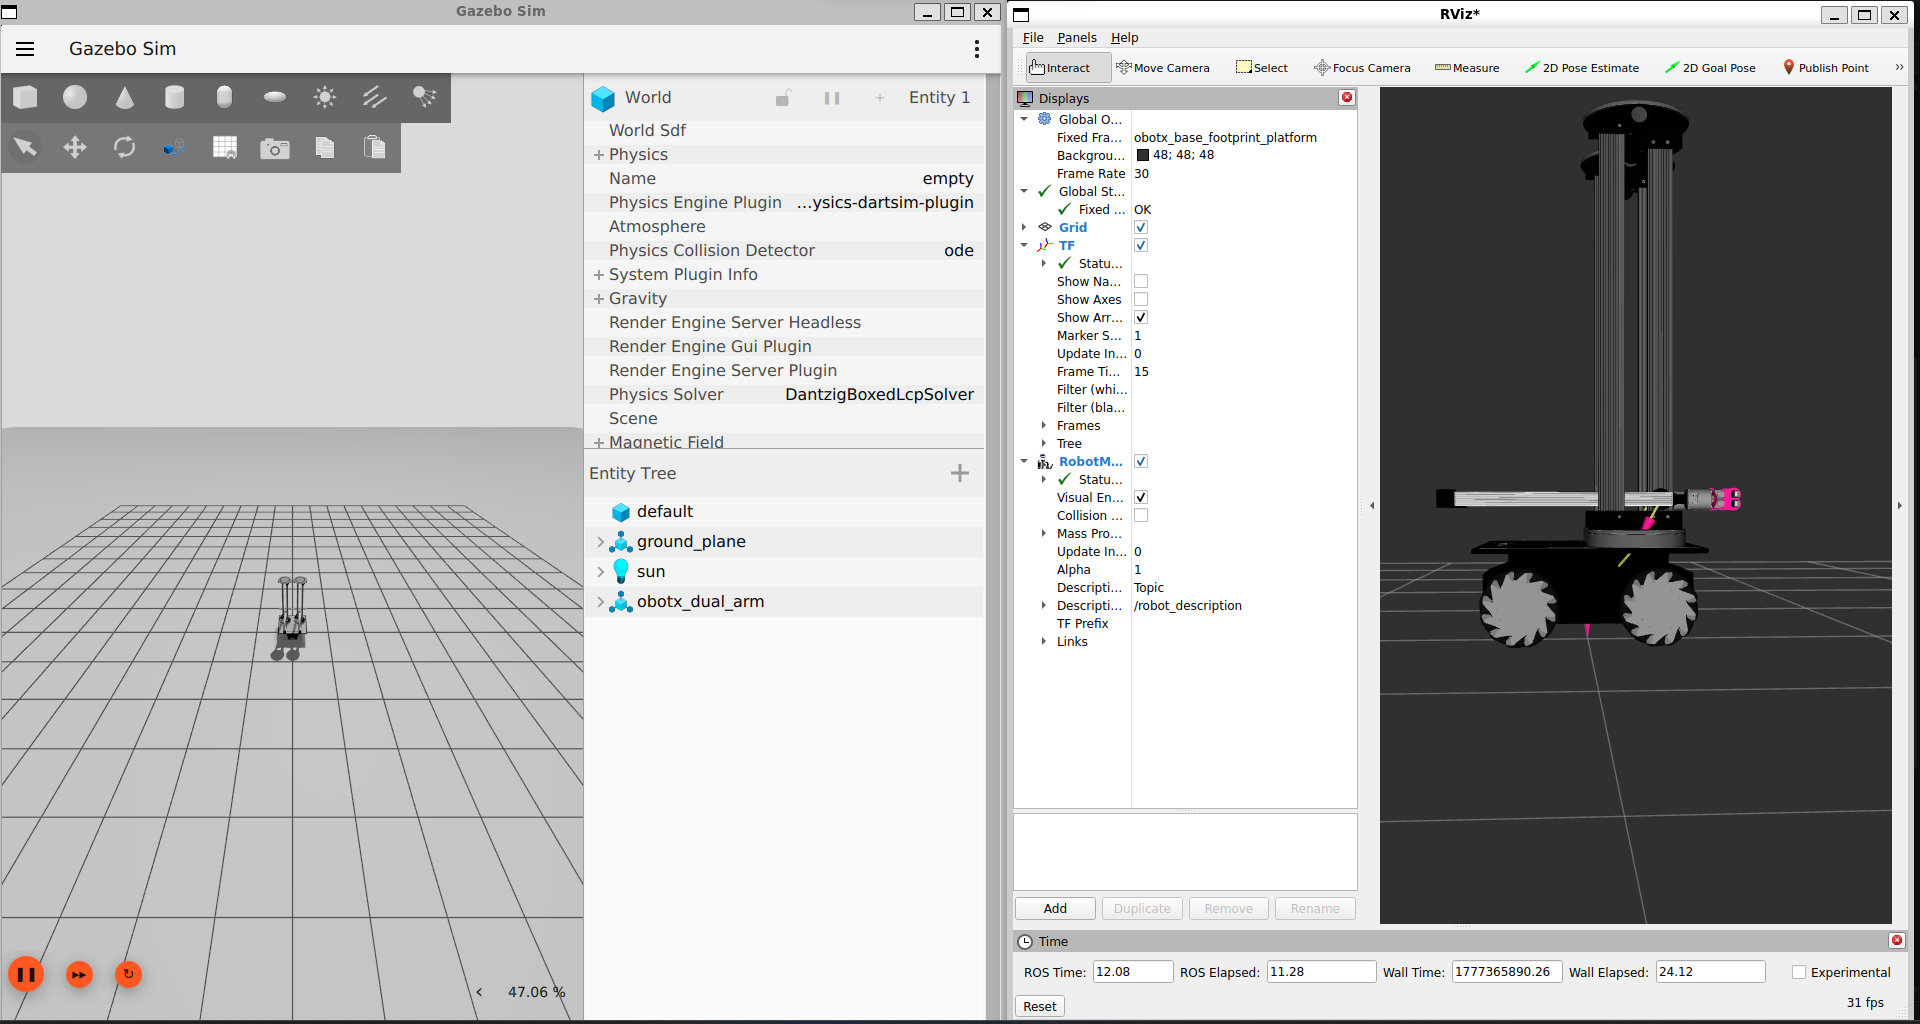
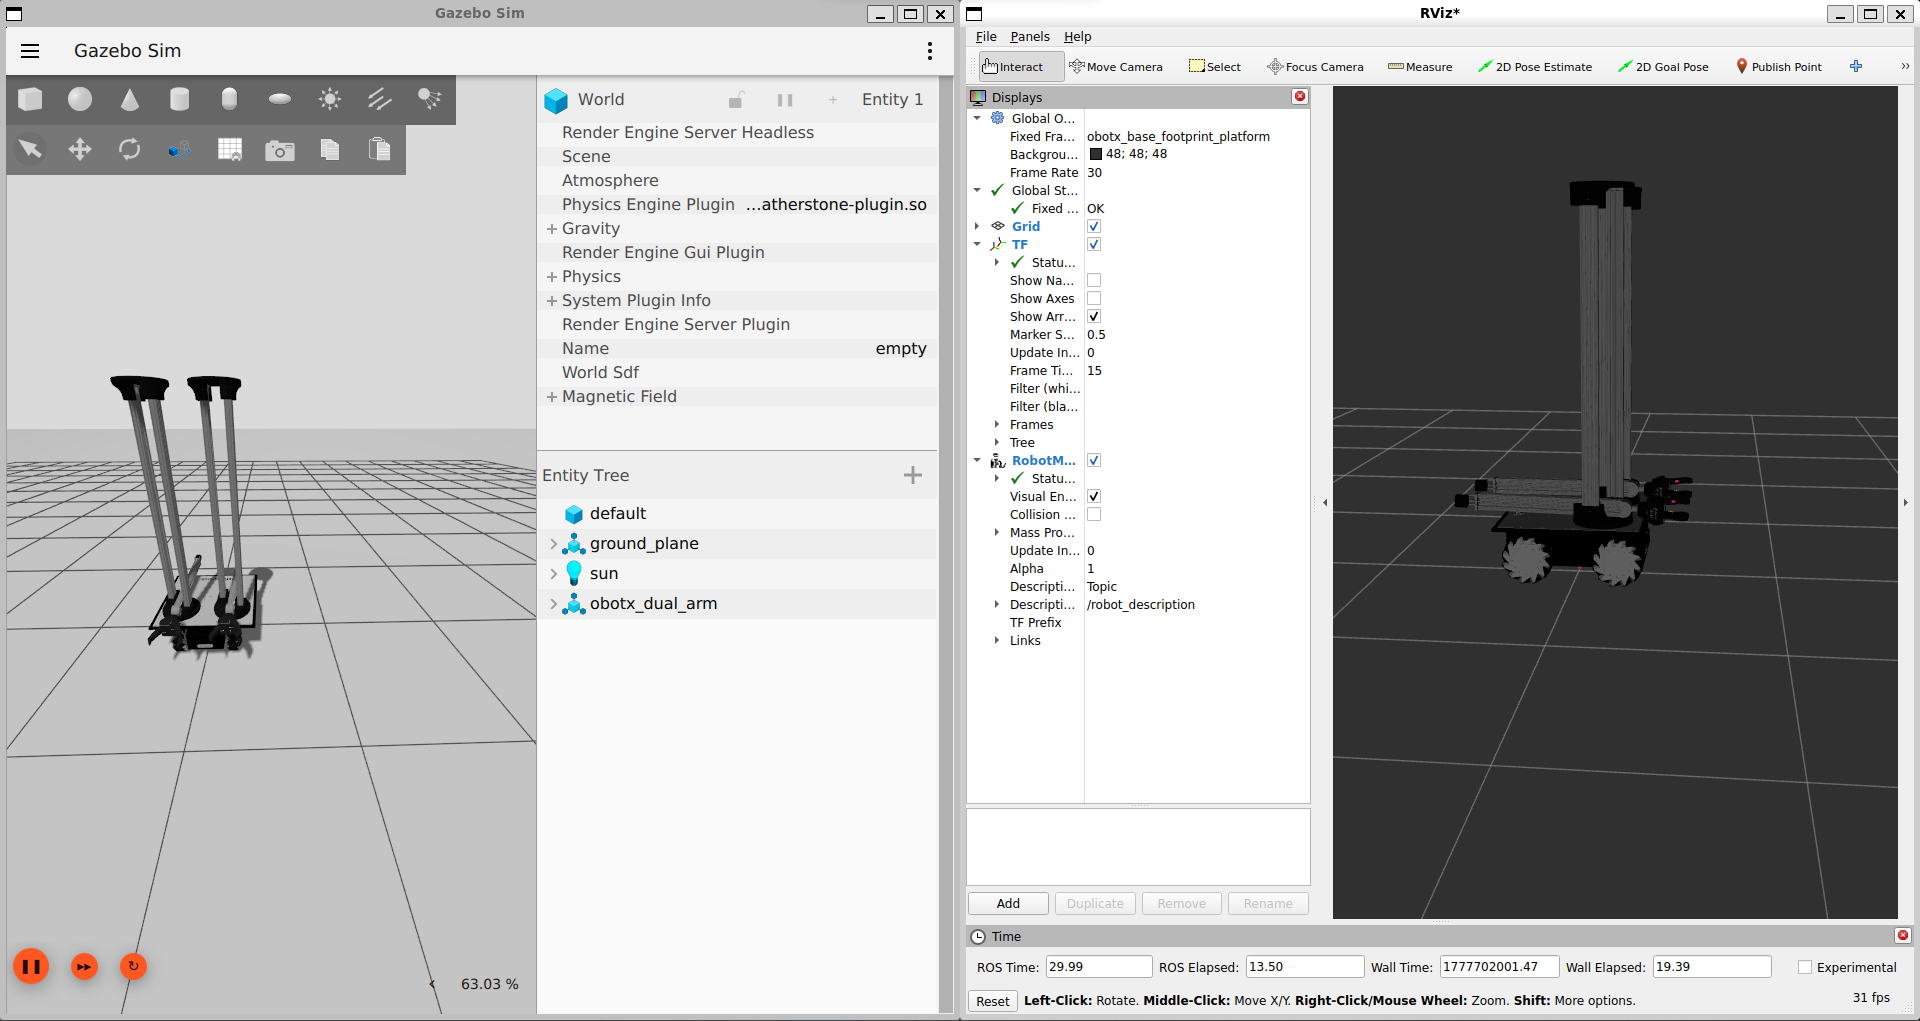
feat:edit ROS Quadruped README

diff --git a/ROS/Quadruped/README.md b/ROS/Quadruped/README.md
@@ -22,17 +22,16 @@ This configuration features two completely separate manipulators mounted side-by
 Before proceeding, ensure you have the following installed:
 1. **ROS 2 Jazzy Jalisco**
 2. **Gazebo Harmonic**
+3. Non-linear mimic gazebo plugin 
 
 If you have not installed these yet, please refer to the official installation guides:
 - [Install ROS 2 Jazzy](https://docs.ros.org/en/jazzy/Installation.html)
 - [Install Gazebo Harmonic](https://gazebosim.org/docs/harmonic/install_ubuntu/)
+- [Install Non-linear Mimics Gazebo Plugin](https://github.com/drmwnrafi/gz_nonlinear_mimic)
 
 ---
 
 ## Quick Start Guide
-
-https://github.com/user-attachments/assets/cead9334-a670-4825-82e9-ccdc08dcac1e
-
 ### 1. Build the Workspace
 
 Navigate to the root of the ROS Quadruped package directory and build the packages
@@ -59,45 +58,13 @@ Open a new terminal.
 - Mobile Base Control
     Use the standard teleop twist keyboard to drive the omnidirectional base
     ```bash
-    ros2 run teleop_twist_keyboard teleop_twist_keyboard --ros-args -p stamped:=true
+    ros2 run teleop_twist_keyboard teleop_twist_keyboard --ros-args -p stamped:=true -r /cmd_vel:=/mecanum_drive_controller/cmd_vel
     ```
 - Arm Control (Example)
     You can send joint trajectory goals directly via the command line to test arm movements. Below is an example sequence for the Right Arm.
     ```bash
-<<<<<<< Updated upstream
-        ros2 action send_goal /right_arm_controller/follow_joint_trajectory control_msgs/action/FollowJointTrajectory "{trajectory: {
-          joint_names: [
-            obotx_right_arm_mount_joint,
-            obotx_right_joint_slider_left_slide,
-            obotx_right_joint_slider_left_hinge,
-            obotx_right_joint_telescopic_slide,
-            obotx_right_joint_hinge_telescopic_hand,
-            obotx_right_finger_1_joint_1,
-            obotx_right_finger_2_joint_1,
-            obotx_right_finger_middle_joint_1
-          ],
-          points: [
-            {
-              positions: [0.0, 0.9, -0.2, 0.6, 0.8, 1.2, 1.2, 1.2],
-              time_from_start: {sec: 3}
-            },
-            {
-              positions: [0.5, 0.3, 0.2, 0.0, 0.0, 0.05, 0.05, 0.05],
-              time_from_start: {sec: 6}
-            },
-            {
-              positions: [-0.5, 0.7, 0.0, 0.6, -0.7, 1.2, 1.2, 1.2],
-              time_from_start: {sec: 9}
-            },
-            {
-              positions: [0.0, 0.2, 0.0, 0.0, 0.0, 0.05, 0.05, 0.05],
-              time_from_start: {sec: 12}
-            }
-          ]
-        }}"
-=======
     ros2 action send_goal /right_arm_controller/follow_joint_trajectory control_msgs/action/FollowJointTrajectory "{trajectory: {
-    joint_names: [
+      joint_names: [
         obotx_right_arm_mount_joint,
         obotx_right_joint_slider_left_slide,
         obotx_right_joint_slider_left_hinge,
@@ -106,59 +73,48 @@ Open a new terminal.
         obotx_right_finger_1_joint_1,
         obotx_right_finger_2_joint_1,
         obotx_right_finger_middle_joint_1
-    ],
-    points: [
+      ],
+      points: [
         {
-        positions: [0.0, 0.9, -0.2, 0.6, 0.8, 0, 0, 0],
-        time_from_start: {sec: 3}
+          positions: [0.0, 0.9, -0.2, 0.6, 0.8, 1.2, 1.2, 1.2],
+          time_from_start: {sec: 3}
         },
         {
-        positions: [0.5, 0.3, 0.2, 0.0, 0.0, 1.5, 1.5, 1.5],
-        time_from_start: {sec: 6}
+          positions: [0.5, 0.3, 0.2, 0.0, 0.0, 0.05, 0.05, 0.05],
+          time_from_start: {sec: 6}
         },
         {
-        positions: [-0.5, 0.7, 0.0, 0.6, -0.7, 0, 0, 0],
-        time_from_start: {sec: 9}
+          positions: [-0.5, 0.7, 0.0, 0.6, -0.7, 1.2, 1.2, 1.2],
+          time_from_start: {sec: 9}
         },
         {
-        positions: [0.0, 0.2, 0.0, 0.0, 0.0, 1.5, 1.5, 1.5],
-        time_from_start: {sec: 12}
+          positions: [0.0, 0.2, 0.0, 0.0, 0.0, 0.05, 0.05, 0.05],
+          time_from_start: {sec: 12}
         }
-    ]
+      ]
     }}"
->>>>>>> Stashed changes
     ```
     
 ## Joint Interface Reference
 
 | Left Arm Joints | Right Arm Joints | Type | Description |
 | :--- | :--- | :--- | :--- |
-| `obotx_left_arm_mount_joint` | `obotx_right_arm_mount_joint` | Revolute | Base rotation of the arm assembly |
+| `obotx_left_arm_mount_joint` | `obotx_right_arm_mount_joint` | Revolute | Base rotation of the arm  |
 | `obotx_left_joint_slider_left_slide` | `obotx_right_joint_slider_left_slide` | Prismatic | Vertical slide (Left Column) |
 | `obotx_left_joint_slider_left_hinge` | `obotx_right_joint_slider_left_hinge` | Prismatic | Vertical slide (Hinge/Column) |
 | `obotx_left_joint_telescopic_slide` | `obotx_right_joint_telescopic_slide` | Prismatic | Telescopic extension |
 | `obotx_left_joint_hinge_telescopic_hand` | `obotx_right_joint_hinge_telescopic_hand` | Revolute | Hand orientation hinge |
-| `obotx_left_joint_slider_right_slide` | `obotx_right_joint_slider_right_slide` | Prismatic | Vertical slide (Right Column) |
-| **Gripper Finger 1** | | | |
-| `obotx_left_j_dg_1_1` | `obotx_right_j_dg_1_1` | Revolute | Finger 1 Joint 1 |
-| `obotx_left_j_dg_1_2` | `obotx_right_j_dg_1_2` | Revolute | Finger 1 Joint 2 |
-| `obotx_left_j_dg_1_3` | `obotx_right_j_dg_1_3` | Revolute | Finger 1 Joint 3 |
-| `obotx_left_j_dg_1_4` | `obotx_right_j_dg_1_4` | Revolute | Finger 1 Joint 4 |
-| **Gripper Finger 2** | | | |
-| `obotx_left_j_dg_2_1` | `obotx_right_j_dg_2_1` | Revolute | Finger 2 Joint 1 |
-| `obotx_left_j_dg_2_2` | `obotx_right_j_dg_2_2` | Revolute | Finger 2 Joint 2 |
-| `obotx_left_j_dg_2_3` | `obotx_right_j_dg_2_3` | Revolute | Finger 2 Joint 3 |
-| `obotx_left_j_dg_2_4` | `obotx_right_j_dg_2_4` | Revolute | Finger 2 Joint 4 |
-| **Gripper Finger 3** | | | |
-| `obotx_left_j_dg_3_1` | `obotx_right_j_dg_3_1` | Revolute | Finger 3 Joint 1 |
-| `obotx_left_j_dg_3_2` | `obotx_right_j_dg_3_2` | Revolute | Finger 3 Joint 2 |
-| `obotx_left_j_dg_3_3` | `obotx_right_j_dg_3_3` | Revolute | Finger 3 Joint 3 |
-| `obotx_left_j_dg_3_4` | `obotx_right_j_dg_3_4` | Revolute | Finger 3 Joint 4 |
-| **Gripper Finger 4** | | | |
-| `obotx_left_j_dg_4_1` | `obotx_right_j_dg_4_1` | Revolute | Finger 4 Joint 1 |
-| `obotx_left_j_dg_4_2` | `obotx_right_j_dg_4_2` | Revolute | Finger 4 Joint 2 |
-| `obotx_left_j_dg_4_3` | `obotx_right_j_dg_4_3` | Revolute | Finger 4 Joint 3 |
-| `obotx_left_j_dg_4_4` | `obotx_right_j_dg_4_4` | Revolute | Finger 4 Joint 4 |
-| **Inner/Grip Joints** | | | |
-| `obotx_left_j_dg_1_inner` | `obotx_right_j_dg_1_inner` | Revolute | Inner Grip Joint 1 |
-| `obotx_left_j_dg_4_inner` | `obotx_right_j_dg_4_inner` | Revolute | Inner Grip Joint 4 |
+| `obotx_left_palm_wrist_roll_joint` | `obotx_right_palm_wrist_roll_joint` | Revolute | Wrist Roll |
+| `obotx_left_palm_wrist_pitch_joint` | `obotx_right_palm_wrist_pitch_joint` | Revolute | Wrist Pitch |
+| `obotx_left_palm_wrist_yaw_joint` | `obotx_right_palm_wrist_yaw_joint` | Revolute | Wrist Yaw |
+| `obotx_left_palm_finger_1_joint` | `obotx_right_palm_finger_1_joint` | Revolute | Finger 1 Side Move Joint |
+| `obotx_left_palm_finger_2_joint` | `obotx_right_palm_finger_2_joint` | Revolute | Finger 2 Side Move Joint |
+| `obotx_left_finger_1_joint_1` | `obotx_right_finger_1_joint_1` | Revolute | Finger 1 Joint 1 |
+| `obotx_left_finger_1_joint_2` | `obotx_right_finger_1_joint_2` | Revolute | Finger 1 Joint 2 |
+| `obotx_left_finger_1_joint_3` | `obotx_right_finger_1_joint_3` | Revolute | Finger 1 Joint 3 |
+| `obotx_left_finger_2_joint_1` | `obotx_right_finger_2_joint_1` | Revolute | Finger 2 Joint 1 |
+| `obotx_left_finger_2_joint_2` | `obotx_right_finger_2_joint_2` | Revolute | Finger 2 Joint 2 |
+| `obotx_left_finger_2_joint_3` | `obotx_right_finger_2_joint_3` | Revolute | Finger 2 Joint 3 |
+| `obotx_left_finger_middle_joint_1` | `obotx_right_finger_middle_joint_1` | Revolute | Middle Finger Joint 1 |
+| `obotx_left_finger_middle_joint_2` | `obotx_right_finger_middle_joint_2` | Revolute | Middle Finger Joint 2 |
+| `obotx_left_finger_middle_joint_3` | `obotx_right_finger_middle_joint_3` | Revolute | Middle Finger Joint 3 |